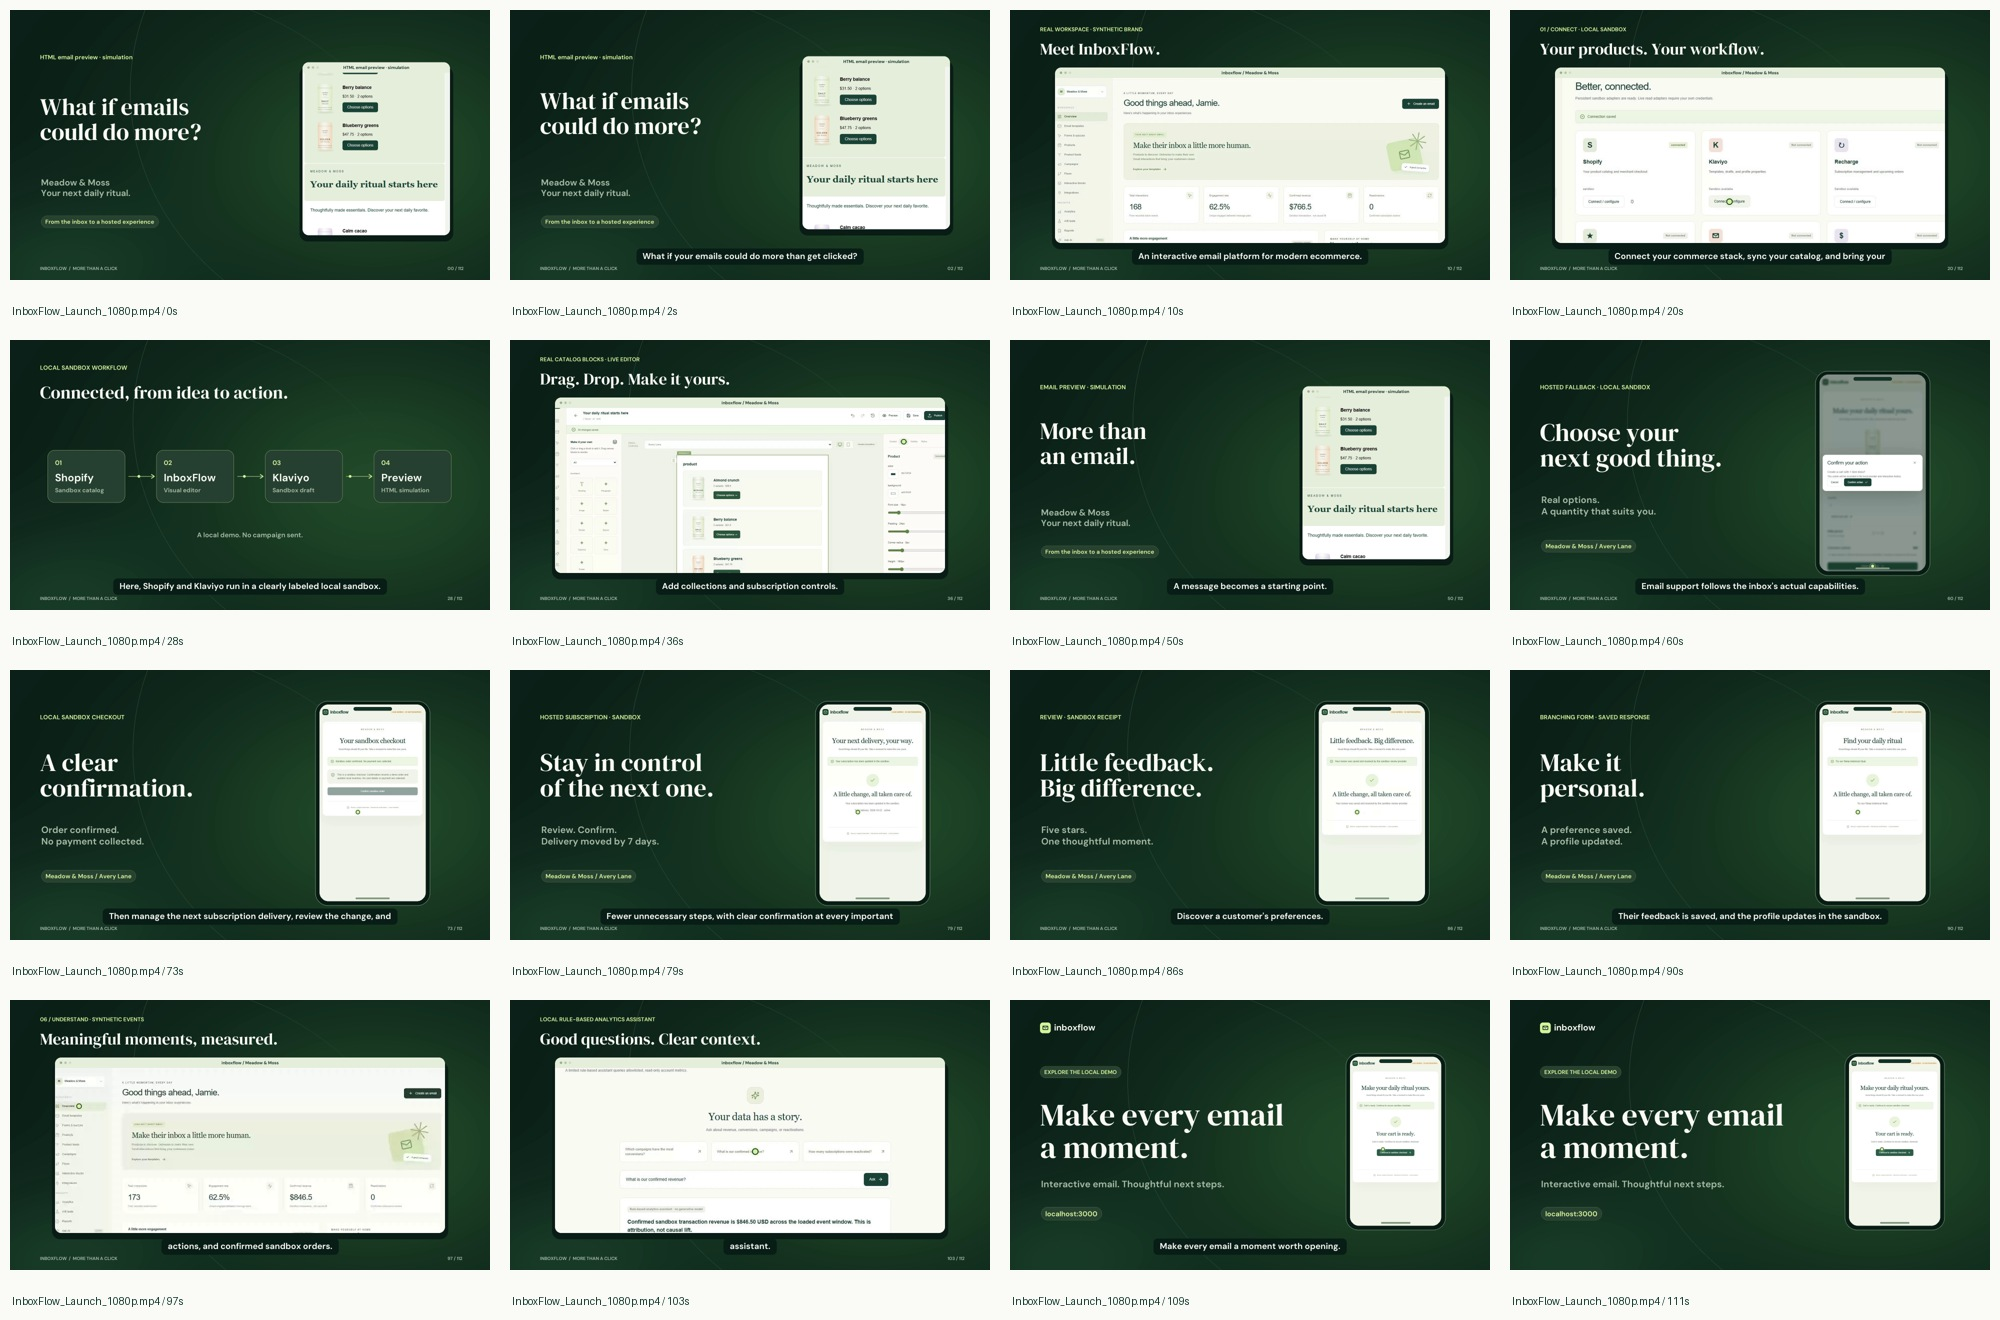
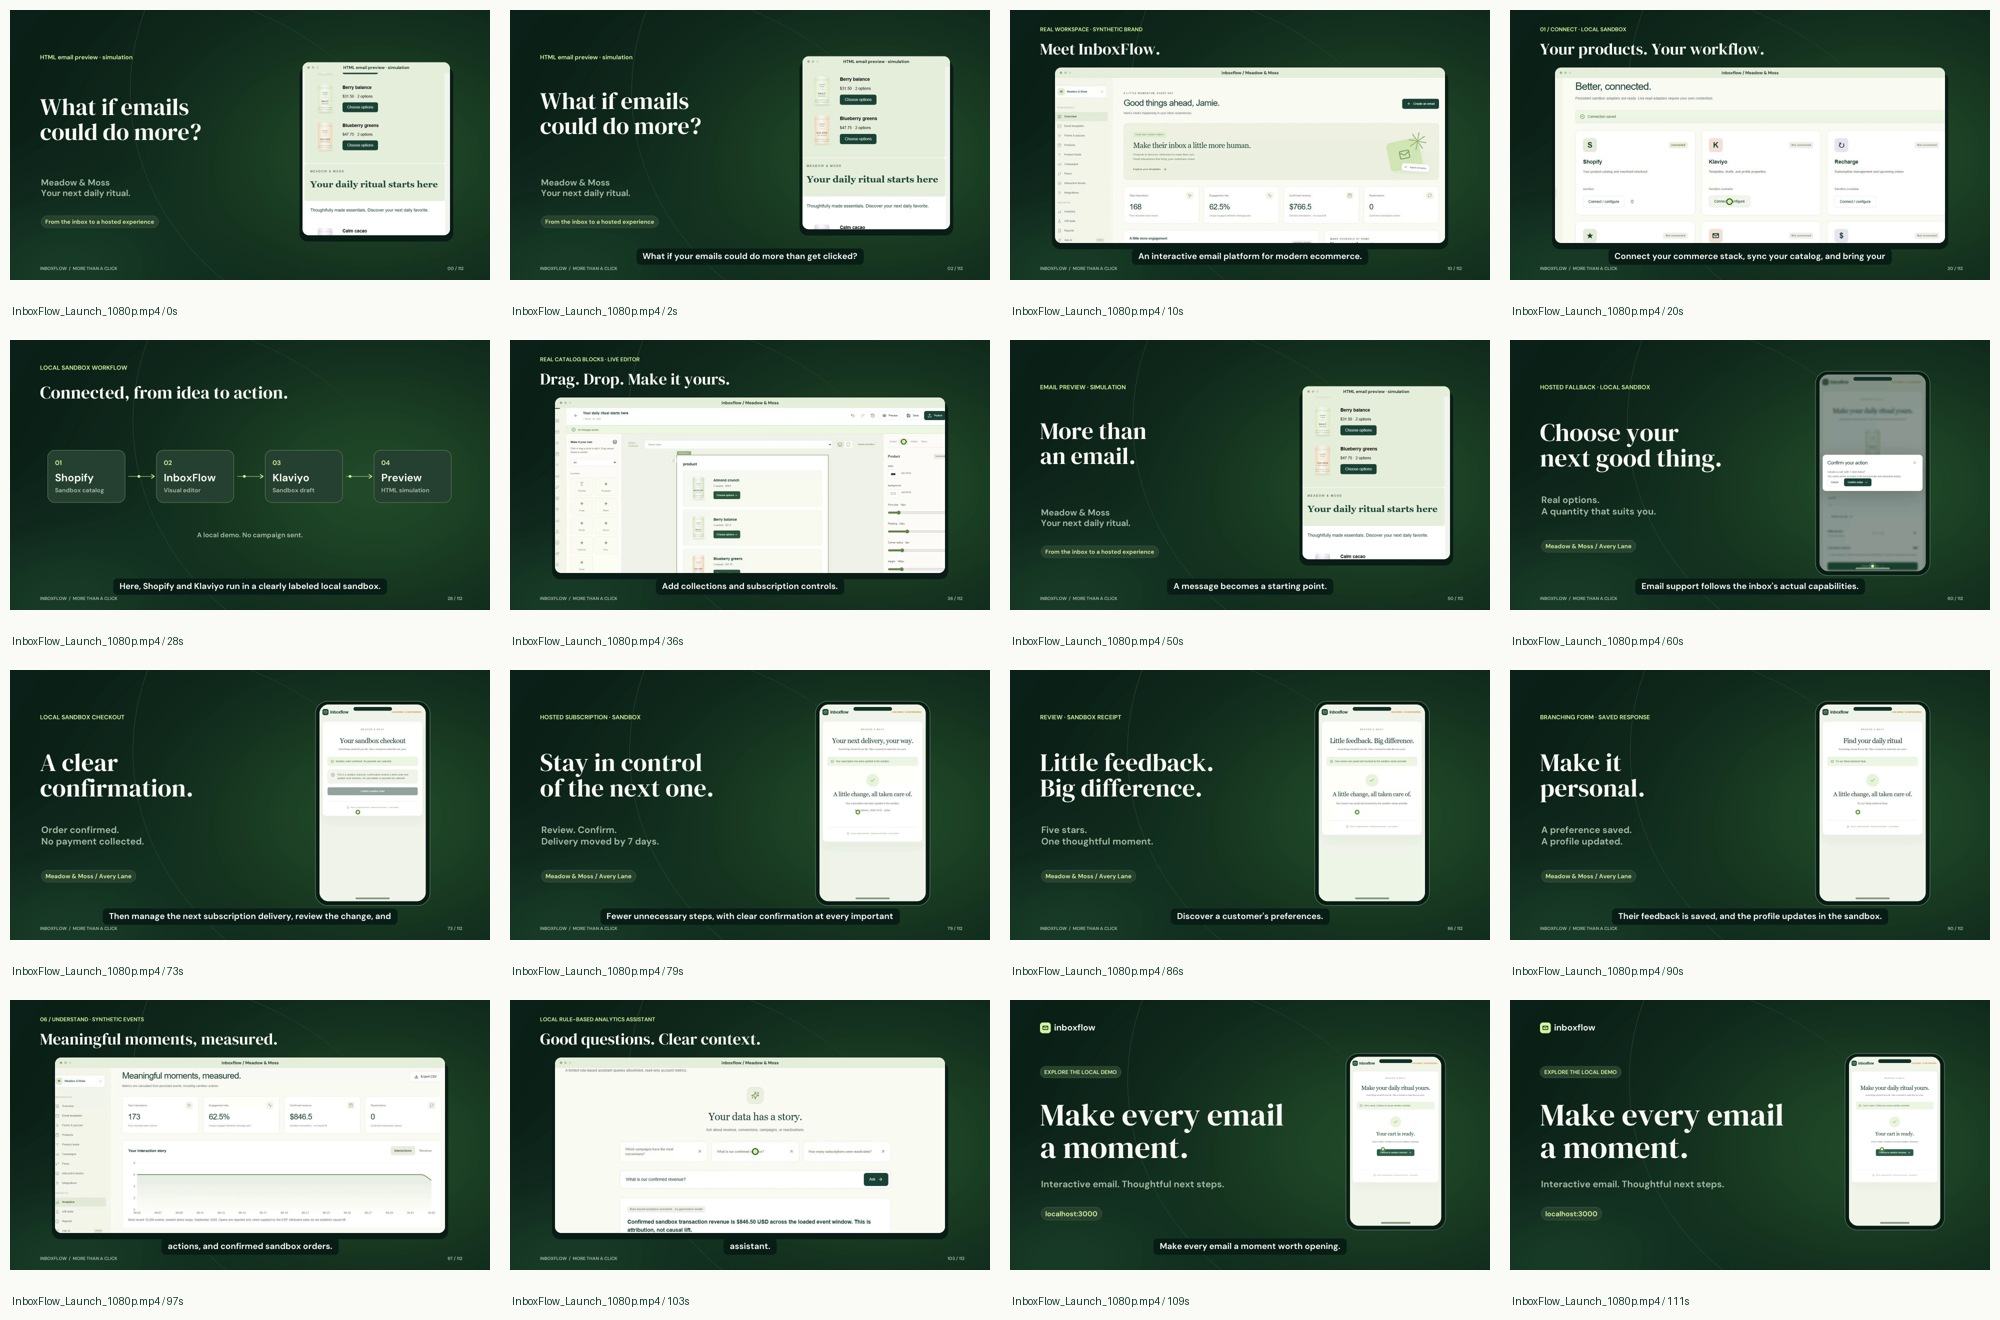
Finalize validated films, media bundle and private release documentation

Changed region(s): [[0.062, 0.8076, 0.217, 0.9318]]

diff --git a/video-production/scripts/bundle.py b/video-production/scripts/bundle.py
@@ -9,7 +9,7 @@ with zipfile.ZipFile(path,'w',compression=zipfile.ZIP_DEFLATED,compresslevel=5) 
         if not source.is_file():continue
         relative=source.relative_to(ROOT)
         if '.cache' in relative.parts or '__pycache__' in relative.parts:continue
-        if source.suffix in ['.mp4','.zip','.pyc'] or source.name.startswith('preview-'):continue
+        if source.suffix in ['.mp4','.zip','.pyc'] or source.name.startswith('preview-') or source.name=='source-bundle-manifest.json':continue
         if source.name.endswith(('-tempo-input.wav','-tempo.wav')) or source.name=='voice-probe.wav':continue
         archive.write(source,Path('video-production')/relative)
         files.append(str(relative).replace('\\','/'))

diff --git a/video-production/README.md b/video-production/README.md
@@ -8,7 +8,7 @@ An editable film project made from real browser recordings of the running InboxF
 | `output/InboxFlow_Social_Vertical.mp4` | 30 seconds | 1080 × 1920, H.264, 30 fps | Separate timed narration, score, large captions |
 | `output/InboxFlow_Website_Hero.mp4` | 12 seconds | 1920 × 1080, H.264, 30 fps | Silent, periodic loop |
 
-The output MP4s, captured WebMs, and WAV stems are local delivery files excluded from Git. Screenshots, source compositions, captions, documentation, licenses, fixture manifests, and verification results are checked in. The 300 MB narration model is a rebuildable cache. See [production notes](docs/production-notes.md), [storyboard](docs/storyboard.md), [narration](docs/narration.md), and [asset licensing](docs/licenses.md).
+The output MP4s, captured WebMs, and WAV stems are local delivery files excluded from Git. The [private v0.1.0 release](https://github.com/tasnimuldatascience/inboxflow/releases/tag/v0.1.0) provides the three MP4s, captions and a ZIP containing the complete editable project, captured footage and audio stems. Screenshots, source compositions, captions, documentation, licenses, fixture manifests, and verification results are checked in. The 300 MB narration model is a rebuildable cache. See [production notes](docs/production-notes.md), [storyboard](docs/storyboard.md), [narration](docs/narration.md), and [asset licensing](docs/licenses.md).
 
 ## Source project and render
 

diff --git a/README.md b/README.md
@@ -6,6 +6,8 @@ An independent interactive-commerce email application built from public product 
 
 Browse [application and film screenshots](docs/SCREENSHOTS.md) and the [video production project](video-production/README.md). The project includes a 112-second product launch film, a 30-second vertical cut, and a silent 12-second website loop. Large footage/audio/video files are local deliverables excluded from Git; editable sources, captions, representative screenshots, licenses, and verification records are included.
 
+Download the finished MP4s and the complete source/media bundle from the [v0.1.0 release](https://github.com/tasnimuldatascience/inboxflow/releases/tag/v0.1.0). The repository and release are private.
+
 ## Run the demo
 
 Requires Node 22.12+ (Node 24 recommended) and pnpm 11.19.0.
